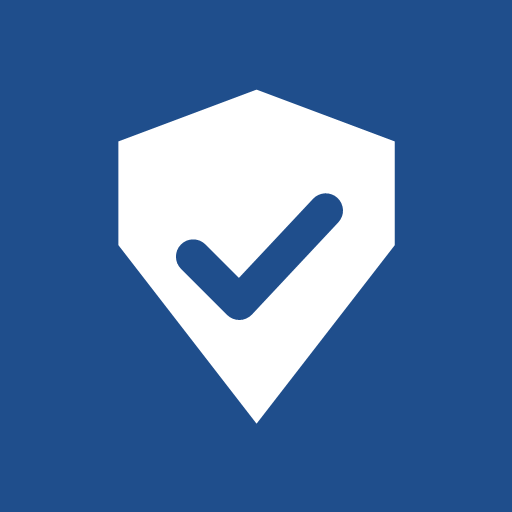
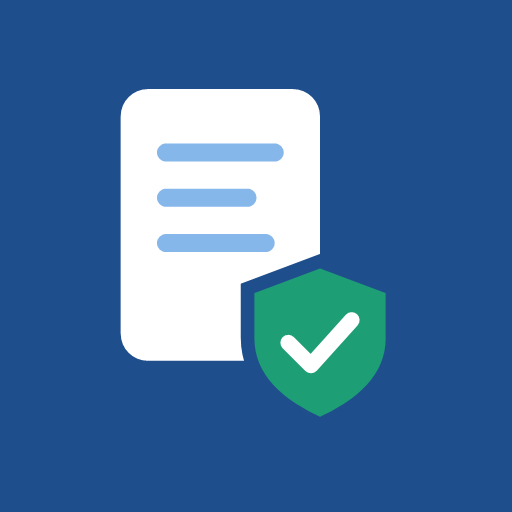
Update app 2026-11-01 23:58

Changed region(s): [[0.2188, 0.1562, 0.7812, 0.8438], [0.2812, 0.2812, 0.5625, 0.4062]]

diff --git a/index.html b/index.html
@@ -3,14 +3,14 @@
 <head>
 <meta charset="utf-8">
 <meta name="viewport" content="width=device-width, initial-scale=1">
-<title>Customer's Policy Summary</title>
+<title>Customer's Policy Summary Pro</title>
 <meta name="theme-color" content="#1f4e8c">
 <link rel="manifest" href="manifest.webmanifest">
 <link rel="icon" href="icon-192.png">
 <link rel="apple-touch-icon" href="apple-touch-icon.png">
 <meta name="apple-mobile-web-app-capable" content="yes">
 <meta name="mobile-web-app-capable" content="yes">
-<meta name="apple-mobile-web-app-title" content="Policy Summary">
+<meta name="apple-mobile-web-app-title" content="Policy Pro">
 <meta name="apple-mobile-web-app-status-bar-style" content="black-translucent">
 <script src="xlsx.full.min.js"></script>
 <script>window.XLSX||document.write('<script src="https://cdnjs.cloudflare.com/ajax/libs/xlsx/0.18.5/xlsx.full.min.js"><\/script>')</script>
@@ -27,6 +27,7 @@ button,input,select,textarea{font:inherit;color:inherit}
 .topbar{position:sticky;top:0;z-index:10;display:flex;align-items:center;gap:12px;flex-wrap:wrap;padding:10px 20px;background:var(--brand);color:#fff;box-shadow:0 2px 8px rgba(0,0,0,.12)}
 .brand{display:flex;align-items:center;gap:10px;font-weight:700;font-size:17px;margin-right:auto;cursor:pointer}
 .brand small{display:block;font-weight:400;font-size:11.5px;opacity:.8}
+.pro{display:inline-block;background:#EF9F27;color:#412402;font-size:10.5px;font-weight:800;letter-spacing:.8px;padding:1px 6px;border-radius:4px;vertical-align:2px;margin-left:2px}
 .btn{border:1px solid var(--line);background:#fff;color:var(--ink);padding:7px 13px;border-radius:8px;cursor:pointer;white-space:nowrap}
 .btn:hover{border-color:var(--brand2)}
 .btn.primary{background:var(--brand2);border-color:var(--brand2);color:#fff}
@@ -218,8 +219,8 @@ textarea{width:100%;min-height:80px;border:1px solid var(--line);border-radius:8
 
 <div class="topbar">
   <div class="brand" onclick="go('portfolio')">
-    <svg width="30" height="30" viewBox="0 0 24 24" fill="none"><path d="M12 2l8 3v6c0 5-3.4 9.4-8 11-4.6-1.6-8-6-8-11V5l8-3z" fill="#fff" opacity=".95"/><path d="M8 12.5l2.6 2.6L16 9.7" stroke="#1f4e8c" stroke-width="2.2" stroke-linecap="round" stroke-linejoin="round"/></svg>
-    <div>Customer's Policy Summary<small>Annual review: coverage, premium, nominee &amp; purpose</small></div>
+    <svg width="36" height="36" viewBox="20 14 70 80" aria-hidden="true"><rect x="26" y="18" width="44" height="60" rx="6" fill="#fff"/><rect x="34" y="30" width="28" height="4" rx="2" fill="#85B7EB"/><rect x="34" y="40" width="22" height="4" rx="2" fill="#85B7EB"/><rect x="34" y="50" width="26" height="4" rx="2" fill="#85B7EB"/><path d="M70 56 L86 62 V73 C86 82 79 88 70 92 C61 88 54 82 54 73 V62 Z" fill="#1D9E75" stroke="#1f4e8c" stroke-width="3"/><path d="M63 74 L68 79 L77 69" fill="none" stroke="#fff" stroke-width="3.5" stroke-linecap="round" stroke-linejoin="round"/></svg>
+    <div>Customer's Policy Summary <span class="pro">PRO</span><small>Annual review: coverage, premium, nominee &amp; purpose</small></div>
   </div>
   <label class="btn primary" title="You can select several PDFs at once, or drag them onto the window">📂 Load Excel / PDF<input type="file" id="file" multiple accept=".xlsx,.xls,.csv,.pdf,application/vnd.openxmlformats-officedocument.spreadsheetml.sheet,application/vnd.ms-excel,text/csv,application/pdf" hidden></label>
   <button class="btn" onclick="loadSample()">Try sample data</button>
@@ -655,7 +656,7 @@ function render(){
 
 function renderEmpty(){
   $('#app').innerHTML=`<div class="empty">
-    <svg width="64" height="64" viewBox="0 0 24 24" fill="none"><path d="M12 2l8 3v6c0 5-3.4 9.4-8 11-4.6-1.6-8-6-8-11V5l8-3z" fill="#2f6fbf"/><path d="M8 12.5l2.6 2.6L16 9.7" stroke="#fff" stroke-width="2.2" stroke-linecap="round" stroke-linejoin="round"/></svg>
+    <svg width="72" height="72" viewBox="0 0 104 104" aria-hidden="true"><rect width="104" height="104" rx="22" fill="#1f4e8c"/><rect x="26" y="18" width="44" height="60" rx="6" fill="#fff"/><rect x="34" y="30" width="28" height="4" rx="2" fill="#85B7EB"/><rect x="34" y="40" width="22" height="4" rx="2" fill="#85B7EB"/><rect x="34" y="50" width="26" height="4" rx="2" fill="#85B7EB"/><path d="M70 56 L86 62 V73 C86 82 79 88 70 92 C61 88 54 82 54 73 V62 Z" fill="#1D9E75" stroke="#1f4e8c" stroke-width="3"/><path d="M63 74 L68 79 L77 69" fill="none" stroke="#fff" stroke-width="3.5" stroke-linecap="round" stroke-linejoin="round"/></svg>
     <h1>Help every client understand their coverage in one page</h1>
     <div class="muted">Load your ePartner policy export, review each client's protection gaps, update details live, then print a report they can keep.</div>
     <div style="margin-top:20px;display:flex;gap:10px;justify-content:center;flex-wrap:wrap">

diff --git a/sw.js b/sw.js
@@ -1,6 +1,6 @@
 // Keeps the app working offline. Network first, so updates show up as soon as the phone is online.
 // Only the app's own files are cached; Excel files you open never leave the phone.
-const CACHE = 'cps-20261101235258';
+const CACHE = 'cps-20261101235826';
 const FILES = ['./', 'index.html', 'xlsx.full.min.js', 'pdf.min.js', 'pdf.worker.min.js', 'html2canvas.min.js', 'jspdf.umd.min.js', 'manifest.webmanifest', 'icon-192.png', 'icon-512.png', 'apple-touch-icon.png'];
 
 self.addEventListener('install', e => {
